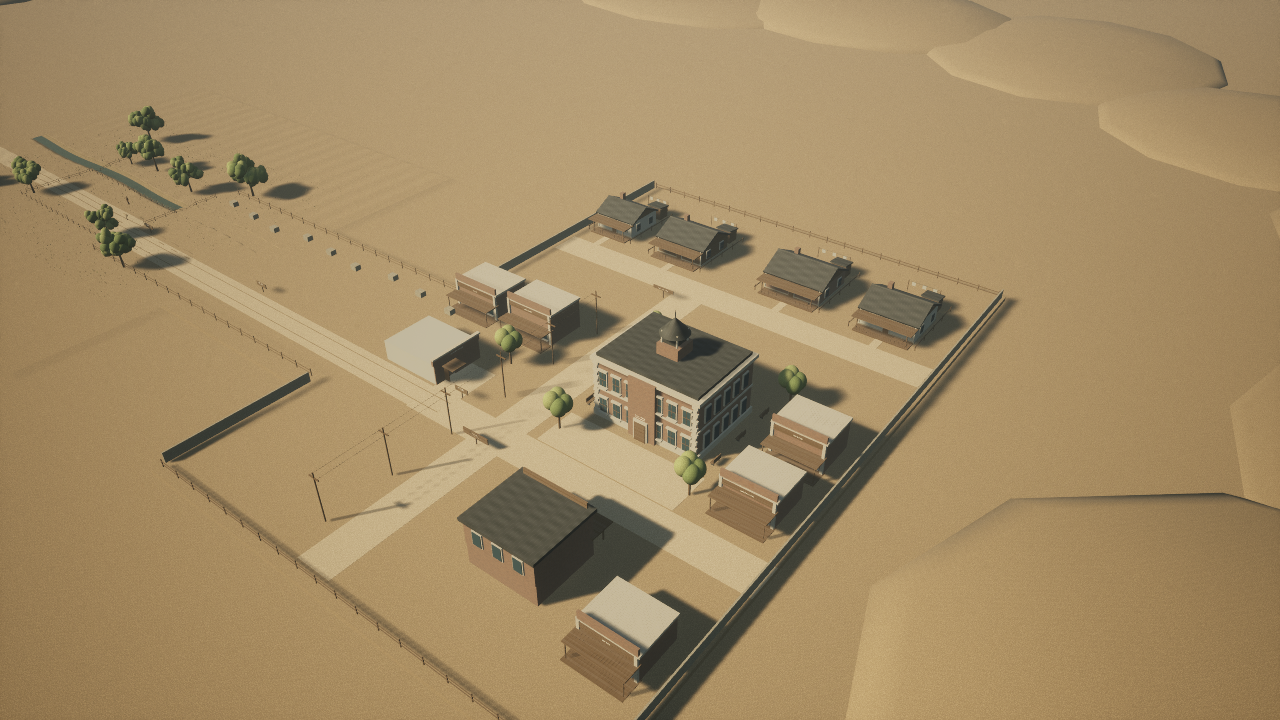
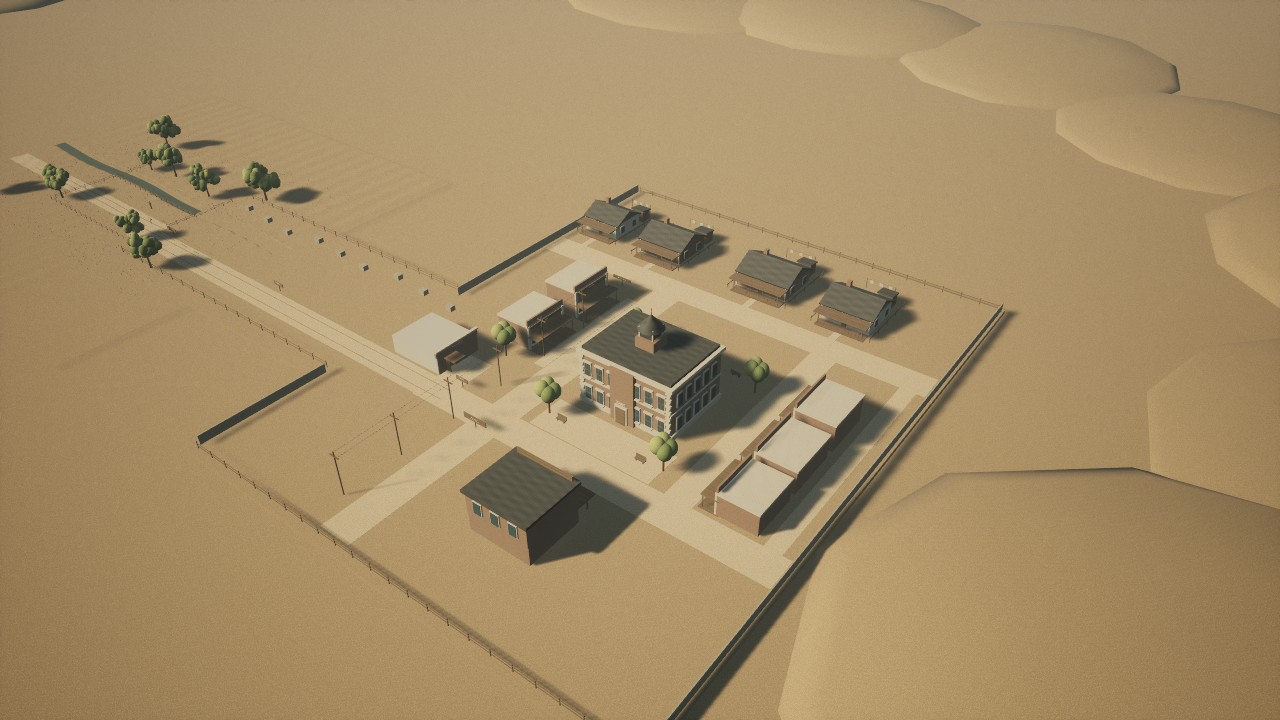
Arrange town shops around connected streets and turn benches toward public space

diff --git a/Source/CountyLine/World/CLPecosBend.cpp b/Source/CountyLine/World/CLPecosBend.cpp
@@ -7,7 +7,7 @@
 
 UStaticMeshComponent* ACLPecosBend::Shape(const FString& Name,FVector P,FVector Size,const TCHAR* Material,const TCHAR* Mesh,bool Collision)
 {
-    auto* C=CreateDefaultSubobject<UStaticMeshComponent>(*Name);C->SetupAttachment(RootComponent);
+    auto* C=CreateDefaultSubobject<UStaticMeshComponent>(*Name);C->SetupAttachment(ConstructionParent?ConstructionParent:RootComponent.Get());
     C->SetRelativeLocation(P);C->SetRelativeScale3D(Size/100.f);
     C->SetStaticMesh(LoadObject<UStaticMesh>(nullptr,*FString::Printf(TEXT("/Engine/BasicShapes/%s.%s"),Mesh,Mesh)));
     const bool bPrototype=FString(Material)==TEXT("Brick") || FString(Material)==TEXT("Plaster");
@@ -30,16 +30,19 @@ UStaticMeshComponent* ACLPecosBend::Shape(const FString& Name,FVector P,FVector 
 
 void ACLPecosBend::Sign(const FString& Name,const FString& Text,FVector P,float Yaw,float Size)
 {
-    auto* T=CreateDefaultSubobject<UTextRenderComponent>(*Name);T->SetupAttachment(RootComponent);
+    auto* T=CreateDefaultSubobject<UTextRenderComponent>(*Name);T->SetupAttachment(ConstructionParent?ConstructionParent:RootComponent.Get());
     T->SetRelativeLocation(P);T->SetRelativeRotation(FRotator(0,Yaw,0));T->SetText(FText::FromString(Text));
     T->SetWorldSize(Size);T->SetHorizontalAlignment(EHTA_Center);T->SetVerticalAlignment(EVRTA_TextCenter);
     T->SetTextRenderColor(FColor(235,222,187));T->SetCollisionEnabled(ECollisionEnabled::NoCollision);
 }
 
-// Closed storefronts face south toward the square. Their signs establish
-// function without pretending these businesses have implemented interiors.
-void ACLPecosBend::Store(const FString& Name,const FString& Title,FVector P,float Width,float Height)
+// Each complete shop has a local frame, so doors, awnings and signs all face
+// its street. Local front is -Y; +90 faces east and -90 faces west.
+void ACLPecosBend::Store(const FString& Name,const FString& Title,FVector P,float Width,float Height,float Yaw)
 {
+    auto* Block=CreateDefaultSubobject<USceneComponent>(*(Name+TEXT("Block")));
+    Block->SetupAttachment(RootComponent);Block->SetRelativeLocation(P);Block->SetRelativeRotation(FRotator(0,Yaw,0));
+    ConstructionParent=Block;P=FVector::ZeroVector;
     Shape(Name+TEXT("Walls"),P+FVector(0,0,Height/2),FVector(Width,700,Height),TEXT("Brick"));
     Shape(Name+TEXT("Cornice"),P+FVector(0,0,Height),FVector(Width+35,735,35),TEXT("Plaster"));
     Shape(Name+TEXT("Parapet"),P+FVector(0,-350,Height+65),FVector(Width,35,120),TEXT("Brick"));
@@ -62,6 +65,7 @@ void ACLPecosBend::Store(const FString& Name,const FString& Title,FVector P,floa
     }
     Shape(Name+TEXT("DoorTransom"),P+FVector(0,-375,245),FVector(100,10,32),TEXT("Iron"),TEXT("Cube"),false);
     Shape(Name+TEXT("DoorHandle"),P+FVector(34,-374,112),FVector(5,8,24),TEXT("Brass"),TEXT("Cube"),false);
+    ConstructionParent=nullptr;
 }
 
 // Small closed homes face the residential lane; porches and yards are walkable.
@@ -129,19 +133,22 @@ void ACLPecosBend::Home(const FString& Name,FVector P,float W,float D,const TCHA
 ACLPecosBend::ACLPecosBend()
 {
     RootComponent=CreateDefaultSubobject<USceneComponent>(TEXT("PecosBend"));
-    Shape(TEXT("TownGround"),FVector(-2800,-100,-42),FVector(7800,8200,80),TEXT("Soil"));
-    Shape(TEXT("ResidentialGround"),FVector(-2800,5650,-42),FVector(7800,3700,80),TEXT("Soil"));
-    Shape(TEXT("ResidentialLane"),FVector(-2800,4300,.2),FVector(7500,600,2),TEXT("RoadDust"),TEXT("Cube"),false);
+    Shape(TEXT("TownGround"),FVector(-3300,-100,-42),FVector(8800,8200,80),TEXT("Soil"));
+    Shape(TEXT("ResidentialGround"),FVector(-3300,5650,-42),FVector(8800,3700,80),TEXT("Soil"));
+    Shape(TEXT("ResidentialLane"),FVector(-3300,4300,.2),FVector(8500,600,2),TEXT("RoadDust"),TEXT("Cube"),false);
+    Shape(TEXT("WestMarketStreet"),FVector(-5650,1750,.2),FVector(500,5100,2),TEXT("RoadDust"),TEXT("Cube"),false);
+    Shape(TEXT("WestServiceLane"),FVector(-7250,1750,.2),FVector(300,5100,2),TEXT("RoadDust"),TEXT("Cube"),false);
+    Shape(TEXT("EastShopWalk"),FVector(-1770,2125,1),FVector(230,2700,4),TEXT("RoadDust"),TEXT("Cube"),false);
     Shape(TEXT("CourtNorthExtension"),FVector(-2200,4100,.2),FVector(620,950,2),TEXT("RoadDust"),TEXT("Cube"),false);
     Home(TEXT("HomeWest"),FVector(-5500,5550,0),1000,900,TEXT("Plaster"));
     Home(TEXT("HomeBrick"),FVector(-3650,5650,0),1100,950,TEXT("Brick"));
     Home(TEXT("HomeTimber"),FVector(-1250,5550,0),1000,900,TEXT("Timber"));
     Home(TEXT("HomeEast"),FVector(400,5600,0),850,800,TEXT("Plaster"));
-    Sign(TEXT("ResidentialSign"),TEXT("HOMES  /  NORTH LANE"),FVector(-1850,3750,180),-90,23);
-    Shape(TEXT("ResidentialSignBoard"),FVector(-1850,3760,180),FVector(430,15,60),TEXT("Timber"));
-    Shape(TEXT("ResidentialSignPost"),FVector(-1850,3760,85),FVector(12,12,170),TEXT("Timber"));
+    Sign(TEXT("ResidentialSign"),TEXT("HOMES  /  NORTH LANE"),FVector(-1300,3750,180),-90,23);
+    Shape(TEXT("ResidentialSignBoard"),FVector(-1300,3760,180),FVector(430,15,60),TEXT("Timber"));
+    Shape(TEXT("ResidentialSignPost"),FVector(-1300,3760,85),FVector(12,12,170),TEXT("Timber"));
     Shape(TEXT("CourtStreet"),FVector(-2200,-100,.2),FVector(620,7700,2),TEXT("RoadDust"),TEXT("Cube"),false);
-    Shape(TEXT("SquareRoad"),FVector(-3650,-800,.2),FVector(6100,600,2),TEXT("RoadDust"),TEXT("Cube"),false);
+    Shape(TEXT("SquareRoad"),FVector(-4100,-800,.2),FVector(7000,600,2),TEXT("RoadDust"),TEXT("Cube"),false);
     Shape(TEXT("CourthouseWalk"),FVector(-3900,-100,1),FVector(2400,760,4),TEXT("RoadDust"),TEXT("Cube"),false);
     // Reference landmark: brick county courthouse, two storeys and a cupola.
     const FVector Court(-3900,1200,0);
@@ -157,13 +164,15 @@ ACLPecosBend::ACLPecosBend()
     {
         for(int32 Row=0;Row<15;++Row)
             Shape(FString::Printf(TEXT("CourtQuoin%d_%d"),Side,Row),Court+FVector(Side*865,-716,105+Row*60),FVector(Row%2?65:100,38,42),TEXT("Plaster"),TEXT("Cube"),false);
-        for(int32 Bay=0;Bay<3;++Bay)
-        {
-            const FVector Seat=Court+FVector(Side*1120,-550+Bay*650,0);
-            Shape(FString::Printf(TEXT("SquareSeat%d_%d"),Side,Bay),Seat+FVector(0,0,46),FVector(60,190,12),TEXT("Timber"));
-            Shape(FString::Printf(TEXT("SquareSeatBack%d_%d"),Side,Bay),Seat+FVector(Side*26,0,82),FVector(10,190,70),TEXT("Timber"));
-            for(int32 Leg:{-1,1}) Shape(FString::Printf(TEXT("SquareSeatLeg%d_%d_%d"),Side,Bay,Leg),Seat+FVector(0,Leg*65,20),FVector(45,12,40),TEXT("Iron"));
-        }
+    }
+    // Backs point toward the courthouse; seating looks across the forecourt
+    // or the open north green, never straight into a nearby wall.
+    for(int32 Side:{-1,1}) for(int32 End:{-1,1})
+    {
+        const FVector Seat(-3900+Side*800,End<0?-150:2600,0);
+        Shape(FString::Printf(TEXT("SquareSeat%d_%d"),Side,End),Seat+FVector(0,0,46),FVector(190,60,12),TEXT("Timber"));
+        Shape(FString::Printf(TEXT("SquareSeatBack%d_%d"),Side,End),Seat+FVector(0,-End*26,82),FVector(190,10,70),TEXT("Timber"));
+        for(int32 Leg:{-1,1}) Shape(FString::Printf(TEXT("SquareSeatLeg%d_%d_%d"),Side,End,Leg),Seat+FVector(Leg*65,0,20),FVector(12,45,40),TEXT("Iron"));
     }
     Sign(TEXT("CourtEntryText"),TEXT("RIVAS COUNTY\nCOURTHOUSE"),Court+FVector(0,-810,410),-90,30);
     for(int32 Floor=0;Floor<2;++Floor) for(int32 Bay=-3;Bay<=3;++Bay)
@@ -190,11 +199,11 @@ ACLPecosBend::ACLPecosBend()
     for(int32 X:{-1,1}) for(int32 Y:{-1,1}) Shape(FString::Printf(TEXT("CupolaPillar%d%d"),X,Y),Court+FVector(X*130,Y*130,1380),FVector(25,25,210),TEXT("Plaster"));
     Shape(TEXT("CupolaCap"),Court+FVector(0,0,1560),FVector(460,460,250),TEXT("Iron"),TEXT("Cone"));
     Shape(TEXT("CupolaFinial"),Court+FVector(0,0,1720),FVector(12,12,150),TEXT("Iron"),TEXT("Cylinder"));
-    Store(TEXT("DryGoods"),TEXT("DRY GOODS"),FVector(-5900,1700,0),850,520);
-    Store(TEXT("Grocer"),TEXT("GENERAL STORE"),FVector(-5900,400,0),850,450);
-    Store(TEXT("PostOffice"),TEXT("POST OFFICE"),FVector(-800,1800,0),950,560);
-    Store(TEXT("Drugs"),TEXT("DRUGS"),FVector(450,1800,0),950,480);
-    Store(TEXT("ClosedShop"),TEXT("REPAIRS"),FVector(-5900,-2450,0),850,420);
+    Store(TEXT("DryGoods"),TEXT("DRY GOODS"),FVector(-6600,2300,0),950,520,90);
+    Store(TEXT("Grocer"),TEXT("GENERAL STORE"),FVector(-6600,1150,0),1000,450,90);
+    Store(TEXT("PostOffice"),TEXT("POST OFFICE"),FVector(-950,2800,0),950,560,-90);
+    Store(TEXT("Drugs"),TEXT("DRUGS"),FVector(-950,1500,0),950,480,-90);
+    Store(TEXT("ClosedShop"),TEXT("REPAIRS"),FVector(-6600,50,0),900,420,90);
 
     // Jail exterior wraps its existing room without moving its report or deputy.
     Shape(TEXT("JailFrontNorth"),FVector(-579,195,180),FVector(18,550,360),TEXT("Brick"));
@@ -265,13 +274,13 @@ ACLPecosBend::ACLPecosBend()
             Shape(FString::Printf(TEXT("SquareTreeCrown%d_%d"),I,J),Trees[I]+FVector((J%2)*130-65,(J/2)*130-65,450+(J%2)*65),FVector(250,250,300),J%2?TEXT("LeafLight"):TEXT("Leaf"),TEXT("Sphere"),false);
     }
     // Town edge: visible rail barriers around the compact authored footprint.
-    for(int32 I=0;I<21;++I) for(int32 Side:{-1,1})
+    for(int32 I=0;I<24;++I) for(int32 Side:{-1,1})
     {
-        const float X=-6600+I*380,Y=Side<0?-4060:7400;
+        const float X=-7600+I*(8600.f/23.f),Y=Side<0?-4060:7400;
         Shape(FString::Printf(TEXT("TownFencePost%d_%d"),I,Side),FVector(X,Y,70),FVector(12,12,140),TEXT("Timber"));
-        if(I<20) for(int32 Rail=0;Rail<2;++Rail) Shape(FString::Printf(TEXT("TownRail%d_%d_%d"),I,Side,Rail),FVector(X+190,Y,50+Rail*55),FVector(380,8,10),TEXT("Timber"));
+        if(I<23) for(int32 Rail=0;Rail<2;++Rail) Shape(FString::Printf(TEXT("TownRail%d_%d_%d"),I,Side,Rail),FVector(X+4300.f/23.f,Y,50+Rail*55),FVector(8600.f/23.f,8,10),TEXT("Timber"));
     }
-    Shape(TEXT("WestTownWall"),FVector(-6640,1670,90),FVector(25,11500,180),TEXT("Rock"));
+    Shape(TEXT("WestTownWall"),FVector(-7640,1670,90),FVector(25,11500,180),TEXT("Rock"));
     Shape(TEXT("TownEastNorth"),FVector(1060,4475,90),FVector(25,5850,180),TEXT("Rock"));
     Shape(TEXT("TownEastSouth"),FVector(1060,-2800,90),FVector(25,2400,180),TEXT("Rock"));
 }

diff --git a/Source/CountyLine/World/CLPrototypeGameMode.cpp b/Source/CountyLine/World/CLPrototypeGameMode.cpp
@@ -313,6 +313,45 @@ void ACLPrototypeGameMode::RunSmokeTest()
         WalkRoute(FVector(-2650,4300,92));WalkRoute(FVector(-2200,4300,92));WalkRoute(FVector(-2200,-800,92));
         WalkRoute(FVector(-850,-800,92));WalkRoute(FVector(-850,-180,92));WalkRoute(FVector(-350,-180,92));
         Check(bRouteClear && PC->Case()->World.LastSafeLocation==TEXT("JailOffice") && PC->Case()->Report.IncludedFacts==Carbon,TEXT("Residential return preserves the jail route and original carbon"));
+        WalkRoute(FVector(-850,-180,92));WalkRoute(FVector(-850,-800,92));WalkRoute(FVector(-5850,-800,92));
+        WalkRoute(FVector(-5850,3300,92));WalkRoute(FVector(-5650,4300,92));WalkRoute(FVector(-7250,4300,92));
+        WalkRoute(FVector(-7250,-800,92));WalkRoute(FVector(-2200,-800,92));
+        Check(bRouteClear,TEXT("Western shop fronts and rear service lane connect to both cross streets"));
+        WalkRoute(FVector(-2200,4300,92));WalkRoute(FVector(-1780,3500,92));WalkRoute(FVector(-1780,800,92));
+        WalkRoute(FVector(-2200,800,92));WalkRoute(FVector(-2200,-800,92));
+        WalkRoute(FVector(-850,-800,92));WalkRoute(FVector(-850,-180,92));WalkRoute(FVector(-350,-180,92));
+        Check(bRouteClear && PC->Case()->World.LastSafeLocation==TEXT("JailOffice"),TEXT("Eastern storefront walk connects North Lane and the jail without crossing a shop"));
+        ACLPecosBend* Town=nullptr;
+        for(TActorIterator<ACLPecosBend> It(GetWorld());It;++It) {Town=*It;break;}
+        auto Part=[Town](const FString& Name)->UStaticMeshComponent*
+        {
+            return Town?FindObjectFast<UStaticMeshComponent>(Town,FName(*Name)):nullptr;
+        };
+        FCollisionQueryParams LayoutParams(SCENE_QUERY_STAT(TownLayout),false,Reed);
+        bool bShopApproaches=Town!=nullptr;
+        for(const TCHAR* Name:{TEXT("DryGoods"),TEXT("Grocer"),TEXT("ClosedShop"),TEXT("PostOffice"),TEXT("Drugs")})
+        {
+            const auto* Door=Part(FString(Name)+TEXT("Door"));
+            if(!Door) {bShopApproaches=false;continue;}
+            const FVector Facing=Door->GetComponentQuat().RotateVector(FVector(0,-1,0));
+            const float ExpectedX=(FString(Name)==TEXT("PostOffice") || FString(Name)==TEXT("Drugs"))?-1.f:1.f;
+            FHitResult Obstruction;
+            const FVector Start=Door->GetComponentLocation()+Facing*60;
+            bShopApproaches &= Facing.X*ExpectedX>.99f && !GetWorld()->LineTraceSingleByChannel(Obstruction,Start,Start+Facing*850,ECC_Visibility,LayoutParams);
+        }
+        Check(bShopApproaches,TEXT("Every shop faces its public street with an unobstructed approach"));
+        bool bSeatViews=Town!=nullptr;
+        for(int32 Side:{-1,1}) for(int32 End:{-1,1})
+        {
+            const auto* Seat=Part(FString::Printf(TEXT("SquareSeat%d_%d"),Side,End));
+            const auto* Back=Part(FString::Printf(TEXT("SquareSeatBack%d_%d"),Side,End));
+            if(!Seat || !Back) {bSeatViews=false;continue;}
+            const FVector Facing(0,End,0);
+            const FVector Start=Seat->GetComponentLocation()+Facing*80+FVector(0,0,65);
+            FHitResult Obstruction;
+            bSeatViews &= FVector::DotProduct(Back->GetComponentLocation()-Seat->GetComponentLocation(),Facing)<-20.f && !GetWorld()->LineTraceSingleByChannel(Obstruction,Start,Start+Facing*600,ECC_Visibility,LayoutParams);
+        }
+        Check(bSeatViews,TEXT("Public benches face open space with their backs toward the courthouse"));
     }
     UE_LOG(LogTemp,Display,TEXT("CL_SMOKE_RESULT=%s"),Passed?TEXT("PASS"):TEXT("FAIL"));
     if(Passed && FParse::Param(FCommandLine::Get(),TEXT("CLTownReview")))
@@ -337,11 +376,11 @@ void ACLPrototypeGameMode::CaptureTownReview()
 {
     // Engine-rendered QA artifacts, isolated by the required CLSmokeTest run.
     // These cameras do not alter the player's saved location or normal view.
-    const FVector Positions[]={FVector(-10000,-7600,8500),FVector(-1600,-480,260),FVector(-4340,-1820,190),FVector(-7600,2800,2500),FVector(-4400,-1400,450),FVector(-6250,4250,220)};
-    const FVector Targets[]={FVector(-2900,1700,250),FVector(-560,0,260),FVector(-4000,-2330,110),FVector(-2700,5650,150),FVector(-3900,1200,650),FVector(-5500,5550,230)};
-    const TCHAR* Names[]={TEXT("TownOverview.png"),TEXT("JailFrontage.png"),TEXT("LangLobby.png"),TEXT("ResidentialLane.png"),TEXT("CourthouseDetail.png"),TEXT("HomeDetail.png")};
+    const FVector Positions[]={FVector(-11000,-8500,9500),FVector(-1600,-480,260),FVector(-4340,-1820,190),FVector(-7600,2800,2500),FVector(-4400,-1400,450),FVector(-6250,4250,220),FVector(-5350,-150,210),FVector(-2350,550,210),FVector(-4400,-900,180)};
+    const FVector Targets[]={FVector(-3300,1700,250),FVector(-560,0,260),FVector(-4000,-2330,110),FVector(-2700,5650,150),FVector(-3900,1200,650),FVector(-5500,5550,230),FVector(-6550,1400,210),FVector(-950,2400,240),FVector(-4700,-150,85)};
+    const TCHAR* Names[]={TEXT("TownOverview.png"),TEXT("JailFrontage.png"),TEXT("LangLobby.png"),TEXT("ResidentialLane.png"),TEXT("CourthouseDetail.png"),TEXT("HomeDetail.png"),TEXT("WestMarketStreet.png"),TEXT("CourtStreetShops.png"),TEXT("SquareSeating.png")};
     const int32 View=TownReviewStep/2;
-    if(View>=6) {GetWorldTimerManager().ClearTimer(TownReviewTimer);FPlatformMisc::RequestExitWithStatus(false,0);return;}
+    if(View>=UE_ARRAY_COUNT(Positions)) {GetWorldTimerManager().ClearTimer(TownReviewTimer);FPlatformMisc::RequestExitWithStatus(false,0);return;}
     if(TownReviewStep%2==0)
     {
         TownReviewCamera->SetActorLocationAndRotation(Positions[View],(Targets[View]-Positions[View]).Rotation());

diff --git a/Scripts/draw_town_layout.py b/Scripts/draw_town_layout.py
@@ -2,6 +2,7 @@
 from pathlib import Path
 from html import escape
 import re
+import math
 
 ROOT = Path(__file__).resolve().parents[1]
 source = (ROOT / 'Source/CountyLine/World/CLPecosBend.cpp').read_text()
@@ -15,7 +16,7 @@ def numbers(value):
     return tuple(float(x.strip()) for x in value.split(','))
 
 def point(x, y):
-    return 50 + (x + 7000) * .062, 110 + (7800 - y) * .062
+    return 50 + (x + 8000) * .062, 110 + (7800 - y) * .062
 
 def box(x, y, w, h, color, stroke='#6e6048'):
     sx, sy = point(x-w/2, y+h/2)
@@ -27,7 +28,7 @@ def shape(name):
         raise ValueError('Source geometry changed: '+name)
     return numbers(match[1]), numbers(match[2])
 
-for name, color in [('TownGround','#e1d2ae'), ('ResidentialGround','#e1d2ae'), ('ResidentialLane','#c6b18c'), ('CourtNorthExtension','#c6b18c'), ('CourtStreet','#c6b18c'), ('SquareRoad','#c6b18c'), ('CourthouseWalk','#d9c7a3')]:
+for name, color in [('TownGround','#e1d2ae'), ('ResidentialGround','#e1d2ae'), ('ResidentialLane','#c6b18c'), ('CourtNorthExtension','#c6b18c'), ('CourtStreet','#c6b18c'), ('SquareRoad','#c6b18c'), ('WestMarketStreet','#c6b18c'), ('WestServiceLane','#c6b18c'), ('EastShopWalk','#d9c7a3'), ('CourthouseWalk','#d9c7a3')]:
     p, size = shape(name)
     box(p[0], p[1], size[0], size[1], color)
 
@@ -37,24 +38,53 @@ lang, lang_size = shape('LangFloor')
 buildings = [('Courthouse (exterior)',court[0],court[1],court_size[0],court_size[1]),
              ('Jail office',0,0,1120,900),
              ("Lang’s (lobby open)",lang[0],lang[1],lang_size[0],lang_size[1])]
-for title, pos, width in re.findall(r'Store\(TEXT\("[^"]+"\),TEXT\("([^"]+)"\),FVector\(([^)]+)\),([\d.]+),[\d.]+\)', source):
+fronts = {'Courthouse (exterior)': (0,-1), 'Jail office': (-1,0), "Lang’s (lobby open)": (0,1)}
+for title, pos, width, yaw in re.findall(r'Store\(TEXT\("[^"]+"\),TEXT\("([^"]+)"\),FVector\(([^)]+)\),([\d.]+),[\d.]+,(-?[\d.]+)\)', source):
     p = numbers(pos)
-    buildings.append((title.title()+' (closed)',p[0],p[1],float(width),700))
+    angle=math.radians(float(yaw))
+    assert float(yaw)%90==0, 'Map needs a polygon for non-cardinal shops'
+    facing=(round(math.sin(angle)),round(-math.cos(angle)))
+    assert abs(facing[0])+abs(facing[1])==1, 'Map needs a polygon for non-cardinal shops'
+    label=title.title()+' (closed)'
+    w,h=(700,float(width)) if facing[0] else (float(width),700)
+    buildings.append((label,p[0],p[1],w,h))
+    fronts[label]=facing
 
 for name, pos, width, depth in re.findall(r'Home\(TEXT\("([^" ]+)"\),FVector\(([^)]+)\),([\d.]+),([\d.]+),TEXT', source):
     p = numbers(pos)
     buildings.append((name.replace('Home', '')+' home (closed)',p[0],p[1],float(width),float(depth)))
+    fronts[buildings[-1][0]]=(0,-1)
+
+def arrow(x,y,fx,fy,length=15,color='#245d75'):
+    sx,sy=point(x,y)
+    dx,dy=fx,-fy
+    ex,ey=sx+dx*length,sy+dy*length
+    parts.append(f'<path d="M {sx} {sy} L {ex} {ey} l {-dx*5-dy*3} {-dy*5+dx*3} M {ex} {ey} l {-dx*5+dy*3} {-dy*5-dx*3}" fill="none" stroke="{color}" stroke-width="2"/>')
 
 for i, (name,x,y,w,h) in enumerate(buildings,1):
     box(x,y,w,h,'#99735b')
+    fx,fy=fronts[name]
+    edge_x,edge_y=x+fx*w/2,y+fy*h/2
+    arrow(edge_x,edge_y,fx,fy)
     sx,sy = point(x,y)
     parts.append(f'<circle cx="{sx}" cy="{sy}" r="14" fill="#fff5df"/><text x="{sx}" y="{sy+5}" text-anchor="middle" font-size="16">{i}</text>')
-    parts.append(f'<text x="620" y="{235+i*34}" font-size="17">{i}. {escape(name)}</text>')
+    parts.append(f'<text x="680" y="{235+i*34}" font-size="17">{i}. {escape(name)}</text>')
 
-parts += ['<text x="620" y="150" font-size="23">N ↑</text>',
-          '<text x="620" y="207" font-size="19">EXISTING BUILDINGS</text>',
-          '<text x="620" y="710" font-size="16">Interiors open only where noted</text>',
-          '<text x="620" y="740" font-size="16">and at the jail office.</text>']
+for side in (-1,1):
+    for end in (-1,1):
+        x,y=-3900+side*800,(-150 if end<0 else 2600)
+        box(x,y,190,60,'#3f6645')
+        arrow(x,y,0,end,10,'#3f6645')
+for label,x,y in [('Market Street',-5650,1400),('Service lane',-7250,1600),('Court Street',-2200,2300)]:
+    sx,sy=point(x,y)
+    parts.append(f'<text x="{sx}" y="{sy}" text-anchor="middle" font-size="12" transform="rotate(-90 {sx} {sy})">{label}</text>')
+
+parts += ['<text x="680" y="150" font-size="23">N ↑</text>',
+          '<text x="680" y="207" font-size="19">EXISTING BUILDINGS</text>',
+          '<text x="680" y="710" font-size="16">Interiors open only where noted</text>',
+          '<text x="680" y="740" font-size="16">and at the jail office.</text>',
+          '<text x="680" y="785" font-size="16" fill="#245d75">Blue arrows: building fronts</text>',
+          '<text x="680" y="815" font-size="16" fill="#3f6645">Green arrows: benches face this way</text>']
 sx,sy = point(1000,-800)
 parts += [f'<path d="M {sx-70} {sy} H {sx+35} l -10 -6 m 10 6 l -10 6" fill="none" stroke="#352f25" stroke-width="3"/>',
           f'<text x="{sx-35}" y="{sy+32}" font-size="14">East road → Bend Lateral</text>',

diff --git a/Source/CountyLine/World/CLCountyRoad.cpp b/Source/CountyLine/World/CLCountyRoad.cpp
@@ -59,8 +59,8 @@ FName ACLCountyRoad::LocationAt(FVector P)
     if(P.Z < -20 || P.Z > 250) return NAME_None;
     if(P.X>-560 && P.X<560 && P.Y>-450 && P.Y<450) return TEXT("JailOffice");
     if(P.X>-4750 && P.X<-3650 && P.Y>-2690 && P.Y<-1700) return TEXT("LangHouse");
-    if(P.X>-6620 && P.X<-1520 && P.Y>-4040 && P.Y<3880) return TEXT("CourtStreet");
-    if(P.X>-6620 && P.X<1040 && P.Y>=3880 && P.Y<7380) return TEXT("CourtStreet"); // Residential extension; same recovery point.
+    if(P.X>-7620 && P.X<-1520 && P.Y>-4040 && P.Y<3880) return TEXT("CourtStreet");
+    if(P.X>-7620 && P.X<1040 && P.Y>=1630 && P.Y<7380) return TEXT("CourtStreet"); // Commercial and residential blocks; same recovery point.
     if(P.X>8220 && P.X<11760 && P.Y>-1200 && P.Y<330) return TEXT("BendLateral");
     if(P.X>=-1520 && P.X<=8220 && P.Y>-1480 && P.Y<1630) return TEXT("CountyRoad");
     return NAME_None;

diff --git a/Source/CountyLine/World/CLPecosBend.h b/Source/CountyLine/World/CLPecosBend.h
@@ -14,6 +14,7 @@ public:
 private:
     class UStaticMeshComponent* Shape(const FString& Name, FVector Position, FVector Size, const TCHAR* Material, const TCHAR* Mesh=TEXT("Cube"), bool Collision=true);
     void Sign(const FString& Name,const FString& Text,FVector Position,float Yaw,float Size);
-    void Store(const FString& Name,const FString& Title,FVector Position,float Width,float Height);
+    void Store(const FString& Name,const FString& Title,FVector Position,float Width,float Height,float Yaw);
+    USceneComponent* ConstructionParent = nullptr;
     void Home(const FString& Name,FVector Position,float Width,float Depth,const TCHAR* Material);
 };

diff --git a/Docs/PECOS_BEND_TOWN.md b/Docs/PECOS_BEND_TOWN.md
@@ -2,6 +2,8 @@
 
 Geography decision: the user has authorized the game layout to lead the final map artwork. See [WORLD_GEOGRAPHY.md](WORLD_GEOGRAPHY.md) and the [current footprint map](Maps/PecosBend-layout.svg). Lang's remains south of the square and the jail east of the courthouse; these intentionally differ from the supplied illustrated town plan.
 
+The subsequent [block and seating revision](TOWN_LAYOUT_REVIEW.md) groups shops into street-facing rows with clear approaches and rear access. Bench views now face public space. This supersedes the original individual shop placements and side-wall seating.
+
 ## Visual target
 
 The subsequent [architecture detail pass](TOWN_DETAIL_PASS.md) adds procedural surface finishes, façade trim, residential details and revised outdoor lighting within the approved layout.
@@ -23,7 +25,7 @@ The register notice is prototype-authored text, not a new conversation with Mrs.
 
 ## Construction and scale
 
-`ACLPecosBend` builds the compact town from native mesh components and the project's existing materials. No map regeneration or new external asset dependency is required. Its approximately 80 by 115-metre footprint is a layout study, not the final eight-street town or literal county scale. `ACLCountyRoad` remains the initial location/checkpoint registry; town streets open the old western route boundary while outer perimeter barriers retain the slice's limits.
+`ACLPecosBend` builds the compact town from native mesh components and the project's existing materials. No map regeneration or new external asset dependency is required. Its approximately 88 by 115-metre footprint is a layout study, not the final eight-street town or literal county scale. `ACLCountyRoad` remains the initial location/checkpoint registry; town streets open the old western route boundary while outer perimeter barriers retain the slice's limits.
 
 The next art stages are proportion/layout approval, bespoke modular brick and timber building assets, modeled doors/windows/roofs, richer terrain and vegetation, and lighting/weather refinement. The goal is the reference's grounded period look; the current simplified geometry is deliberately an intermediate playable stage.
 
@@ -35,6 +37,6 @@ Runtime checks cover collision-swept travel from the jail to the square, entry i
 
 Verified Unreal captures: [town overview](Verification/PecosBend/TownOverview.png), [residential lane](Verification/PecosBend/ResidentialLane.png), [jail frontage](Verification/PecosBend/JailFrontage.png), and [Lang's lobby](Verification/PecosBend/LangLobby.png).
 
-For a fresh capture, create `Saved/Screenshots/TownReview`, then launch the editor executable with the project and `/Game/Maps/L_JailOffice -game -windowed -ResX=1440 -ResY=900 -nosplash -CLSmokeTest -CLTownReview`. After the smoke checks pass, the game takes six fixed-camera screenshots without UI and exits. This development-only mode does not use the player's save slot.
+For a fresh capture, create `Saved/Screenshots/TownReview`, then launch the editor executable with the project and `/Game/Maps/L_JailOffice -game -windowed -ResX=1440 -ResY=900 -nosplash -CLSmokeTest -CLTownReview`. After the smoke checks pass, the game takes nine fixed-camera screenshots without UI and exits. This development-only mode does not use the player's save slot.
 
 The initial town pass passed 10 automation suites and 68 runtime smoke assertions. Subsequent jogging and residential work expands that coverage; see [VERIFICATION.md](VERIFICATION.md) for current results and limitations.

diff --git a/Docs/TOWN_LAYOUT_REVIEW.md b/Docs/TOWN_LAYOUT_REVIEW.md
@@ -1,0 +1,23 @@
+# Town blocks and public-space review
+
+The user identified front-to-back shop crowding and benches aimed at the courthouse wall. This revision prioritizes a usable town plan over matching reference artwork. Images supply architectural character, not mandatory plot placement.
+
+## Commercial blocks
+
+Three businesses form the west block, side by side along Market Street: repairs to the south, the general store in the middle and dry goods to the north. Every frontage faces east. Shop bodies are 7 metres deep; their awnings and boardwalks face a 5-metre street rather than another shop's rear wall. A separate 3-metre service lane runs behind the block. Both streets connect the southern crossroad to North Lane. Side gaps between the shops remain open.
+
+The pharmacy and post office form a second row east of Court Street, both facing west. Their entrances have boardwalks and a continuous public walking strip along Court Street. Their backs face open service space on the east edge. The jail retains a separate approach south of these shops.
+
+Store geometry, signs and trim now share a per-building transform. Rotating a shop therefore rotates its door, lettering, awning and boardwalk together. This avoids a front-facing sign attached to a building whose actual approach faces elsewhere.
+
+## Courthouse seating
+
+The former six wall-facing side benches are replaced by four benches in two pairs. The southern pair face across the forecourt toward the crossroad; the northern pair face the open north green. Their backs face the courthouse. They stand roughly 6.5–7 metres from the main building's nearest wall, with the central entrance approach left clear.
+
+## Continuity and map
+
+The courthouse, jail, Lang's, homes, investigation route and saved checkpoint transforms retain their positions. The western ground/perimeter extends 10 metres to accommodate the commercial block and rear service lane. Court Street's discovery region expands to include these public areas; existing save ids stay valid.
+
+`Scripts/draw_town_layout.py` reads each shop's yaw and calculates its rotated footprint. The regenerated [map](Maps/PecosBend-layout.svg) shows blue arrows for building fronts and green arrows for seating direction. The original reference images are retained unchanged. It remains a schematic of the current playable slice, not the final illustrated county map.
+
+Runtime checks sweep Reed's capsule along both shopfront walks and the west service loop. Additional checks use the actual shop-door transforms to verify street-facing directions and clear approaches, and test the space in front of each bench. These supplement the existing report, save, residential and investigation checks. Street widths are authored layout dimensions, not a claim of tested vehicle navigation; vehicles and occupied shop interiors remain future work.

diff --git a/Docs/VERIFICATION.md b/Docs/VERIFICATION.md
@@ -151,3 +151,11 @@ Generated six original procedural Unreal material assets with Scripts/build_town
 CountyLineEditor Win64 Development built with -NoPCH -NoUBA -NoHotReloadFromIDE. Scripts/Test-Prototype.ps1 exited 0: all 13 automation suites and 77 runtime checks passed. Initial close-up captures exposed overly dark shaded fronts. Adjusted the shared outdoor sun direction and skylight intensity, rebuilt, and reran the offscreen rendered fixture: all 77 runtime checks passed again, with no shader compilation errors reported. Reviewed the final courthouse and home close-ups and town overview; the six current engine captures are in Docs/Verification/PecosBend.
 
 The desktop checkout contains the rebuilt module and generated materials. No player save was loaded or written by these checks. This is an intermediate surface/detail pass with fixed daylight, opaque windows and simplified geometry/vegetation; it is not a packaged-build, physical-controller or performance certification. See TOWN_DETAIL_PASS.md for reproduction and limits.
+
+## Coherent commercial blocks and courthouse seating - 20 September 2026
+
+Reorganized five shops into two street-facing rows, added connected frontage and service routes, and replaced wall-facing benches with four outward-facing seats. Existing civic buildings, homes and recovery checkpoints retain their positions. The generated map now accounts for rotated shop footprints and shows frontage and seating directions.
+
+CountyLineEditor Win64 Development built successfully. Scripts/Test-Prototype.ps1 exited 0: all 13 automation suites and 81 runtime checks passed. The initial new eastern frontage route caught the North Lane sign blocking the diagonal connection; the sign was moved to the verge and the build and full test runner passed afterward. New checks exercise capsule-swept frontage/service routes, actual door orientation and approach clearance, and bench back placement and view clearance.
+
+The final offscreen rendered review also passed all 81 runtime checks. Visually reviewed the overview, both commercial rows and courthouse seating. All nine current captures are backed up in Docs/Verification/PecosBend. The desktop checkout contains the rebuilt module. Tests bypass the player's save slot; no physical-controller, vehicle-navigation or packaged-build certification is implied.

diff --git a/Docs/WORLD_GEOGRAPHY.md b/Docs/WORLD_GEOGRAPHY.md
@@ -27,6 +27,8 @@ The first residential block extends the northern town boundary to Y 7400. It is 
 
 The five existing shops retain their prototype identities for now. Their eventual business names and architecture can change as the town expands. Do not silently treat the existing repair shop as an implemented hotel or livery.
 
+Following the user's street-level review, the commercial plan now takes priority over the illustrations: repairs, general store and dry goods form an east-facing row on Market Street, with a rear service lane. Drugs and post office form a west-facing row on Court Street. Four courthouse benches face the forecourt or north green with their backs toward the building. See [TOWN_LAYOUT_REVIEW.md](TOWN_LAYOUT_REVIEW.md). The west boundary is now X=-7640; the civic buildings and residential plots remain in place.
+
 ## Reserved county geography — future construction
 
 These are design allocations, not existing playable destinations or exact coordinates:
